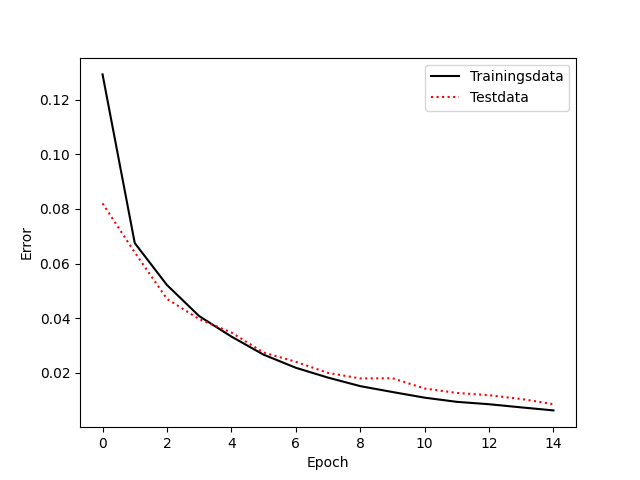
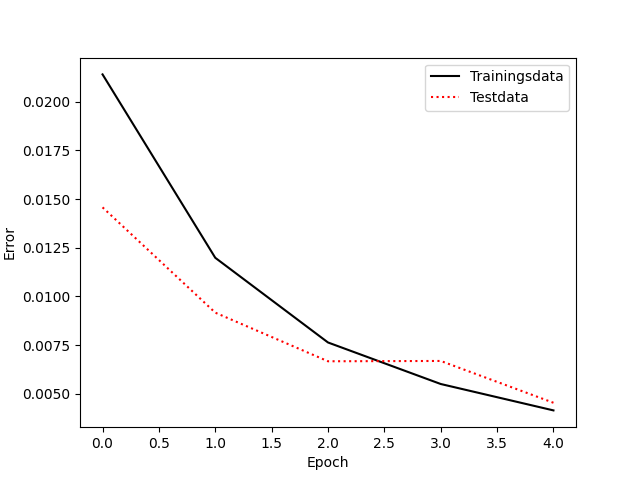
new shield candidate

diff --git a/data_generator.py b/data_generator.py
@@ -130,14 +130,14 @@ if __name__ == "__main__":
     users = arr[arr[:,1] == '0']
     users = np.concatenate((users, DataGen.gen_char(users, char='_')))
     #arr = np.concatenate((arr, DataGen.gen_char(users, char='_')))
-    arr = np.concatenate((arr, DataGen.randomize_numbers(arr)), axis=0)
+    arr = np.concatenate((arr, DataGen.randomize_numbers(users)), axis=0)
     #arr = np.concatenate((arr, DataGen.randomize_numbers(arr)), axis=0)
     arr = np.concatenate((arr, DataGen.name_gen("names.csv", 10, gen_trailing_numbers=True)))
     arr = np.concatenate((arr, DataGen.full_name_gen("names.csv", "surnames.csv", 10)))
     arr = np.concatenate((arr, DataGen.full_name_gen("names.csv", "surnames.csv", 10, gen_trailing_numbers=True)))
     arr = np.concatenate((arr, DataGen.full_name_gen("names.csv", "surnames.csv", 10, gen_trailing_numbers=True, insert = '_')))
     arr = np.concatenate((arr, DataGen.randomize_numbers(arr)), axis=0)
-    #arr = np.concatenate((arr, DataGen.randomize_numbers(arr)), axis=0)
+    arr = np.concatenate((arr, DataGen.randomize_numbers(arr)), axis=0)
     arr = np.concatenate((arr, DataGen.gen_gfx_prefix(arr)),axis=0)
     arr = np.concatenate((arr, DataGen.gen_gfx_suffix(arr)), axis=0)
     print(

diff --git a/train.py b/train.py
@@ -6,8 +6,8 @@ from streamer_shield_train import train
 if __name__ == "__main__":
     l= Logger(console_log=True)
     layers = [32, 16, 8]
-    sequence_len = 29
-    train("generated_data.csv", "auto_gen.h5", layers=layers, kernel=5, patience = 10, epochs = 15, sequence_len=sequence_len)
+    sequence_len = 30
+    train("generated_data.csv", "auto_gen.h5", layers=layers, kernel=5, patience = 2, epochs = 5, sequence_len=sequence_len)
     ss = StreamerShield("auto_gen.h5", "vocabulary.pkl",sequence_len)
     correctly_identified_users_bool,correctly_identified_users_conf,correctly_identified_scammers_bool, correctly_identified_scammers_conf = ss.test(False)
     user_perc = 0

diff --git a/streamer_shield_train.py b/streamer_shield_train.py
@@ -86,7 +86,7 @@ def train(data_path, model_path ,layers = [32,32,32,1], kernel = 3, oneHot = Fal
             tf.keras.layers.Dense(1, activation='sigmoid')
         ])
 
-        model.compile(loss='binary_crossentropy',optimizer='adam',metrics=['accuracy', tf.keras.metrics.PrecisionAtRecall(0.6)])
+        model.compile(loss='binary_crossentropy',optimizer='adam',metrics=['accuracy'])
 
     earlystop  = tf.keras.callbacks.EarlyStopping(monitor='val_loss', 
                                                   patience=patience, 
